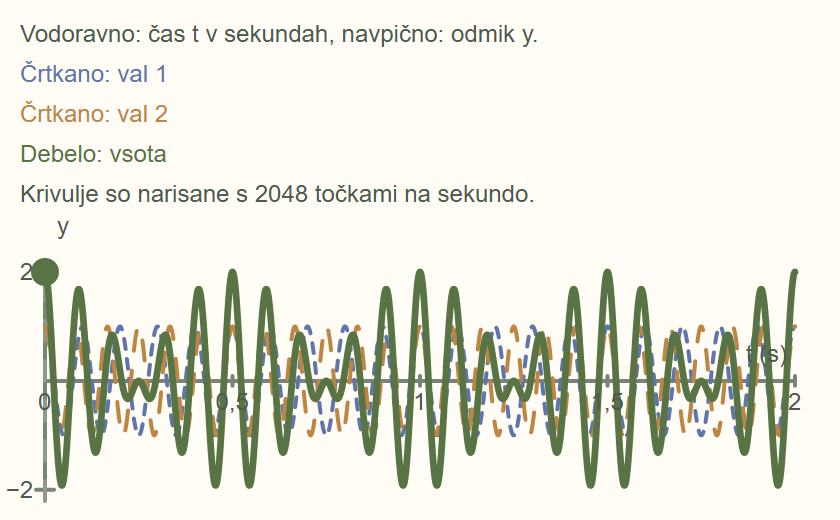
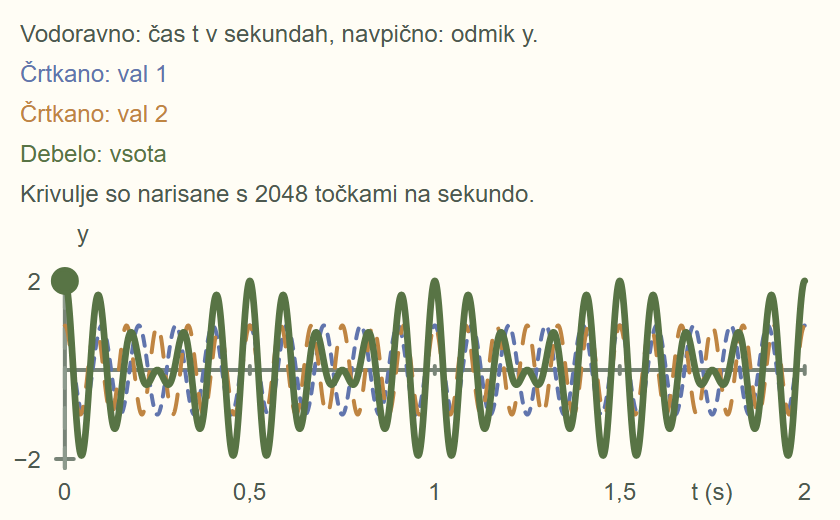
fix: waves board texts stay clear of curves, markers and the caption stack
Tick numbers and the axis title stand in a row under the plot, y numbers
left of the axis; the phasor names are placed by the shared board-label
placer (cache quantised to 6 px of tip travel). The plot keeps at least
90 px under a tall caption stack. Waves cards recaptured.

Claude-Session: https://claude.ai/code/session_01UfEZWPAJjUDrtsi1qRQ28P

Changed region(s): [[0.0, 0.4923, 0.9595, 0.9846], [0.8048, 0.9231, 0.8667, 0.9846], [0.0619, 0.4308, 0.1238, 0.4615]]

diff --git a/src/graphs/functions/WavesGraph.tsx b/src/graphs/functions/WavesGraph.tsx
@@ -12,6 +12,7 @@ import {LiveReadout, SettledReadout} from "../base/controls/LiveReadout";
 import {PlaybackButtons, playbackBlocks} from "../base/controls/PlaybackButtons";
 import {prefersReducedMotion, useReducedMotion} from "../base/controls/reducedMotion";
 import {GraphPalette} from "../styles/GraphPalette";
+import {placeLpLabels, sampleLine, type LabelItem, type PxBox} from "../legend/boardLabelPlacement";
 import {PresetCollection} from "../base/presets/PresetCollection";
 import {Preset} from "../base/presets/Presets";
 import {wavesPresetCollection} from "./waves/wavesPresetCollection";
@@ -73,12 +74,17 @@ export function frameFor(derived: WavesDerived, captions?: {readonly roomPx: num
     const span = derived.xs[derived.xs.length - 1];
     const peak = 1.1 * derived.yPeak;
     const hasPanel = derived.mode === "sum" || derived.mode === "sampling";
-    const bottom = derived.mode === "sampling" ? -2 * peak : -1.25 * peak;
+    let bottom = derived.mode === "sampling" ? -2 * peak : -1.25 * peak;
     let top = 2.3 * peak;
     // On a narrow board the captions wrap and take more rows than the fixed room holds: keep `roomPx` clear above the plot
     // (with the "y" title above its top end) and give the rest of the board's height to the plot.
     if (captions && Number.isFinite(captions.heightPx)) {
         const need = Math.min(captions.roomPx + Y_TITLE_PX, captions.heightPx - MIN_PLOT_PX);
+        // The tick numbers and the axis title stand in a row under the plot (not in sampling mode): keep that row inside the board.
+        if (derived.mode !== "sampling") {
+            const plotPx = captions.heightPx - Math.max(need, 0);
+            bottom = Math.min(bottom, peak - (2 * peak) / (1 - TICK_ROW_PX / plotPx));
+        }
         if (need > 0) top = Math.max(top, peak + (need * (peak - bottom)) / (captions.heightPx - need));
     }
     return [hasPanel ? -0.66 * span : -0.1 * span, top, 1.06 * span, bottom];
@@ -93,13 +99,16 @@ export function captionLines(text: string, width: number): number {
     return Math.max(1, Math.ceil((text.length * CAPTION_CHAR_PX) / room));
 }
 /** The height of the "y" axis title and the gap above it, in pixels. */
-const Y_TITLE_PX = 32;
+const Y_TITLE_PX = 44;
+/** The row of x tick numbers and the axis title under the plot (modes without the strip): gap under the plot edge and the height it needs, in pixels. */
+const TICK_GAP_PX = 5;
+const TICK_ROW_PX = 26;
 /** The "y" title stands at least this many pixels above the top tick number (a 12 px number centred on its tick) before its own gap. */
 const Y_TITLE_CLEARANCE_PX = 14;
 /** The names of the wheel arrows: the gap under the circle (the arrowhead overshoots the circle by about 10 px) and the pitch of their two rows. */
 const NAME_GAP_PX = 24;
 const NAME_ROW_PX = 20;
-const MIN_PLOT_PX = 140;
+const MIN_PLOT_PX = 90;
 
 /** Where a strip of instants lies under the plot (sampling mode), in units of the vertical half extent. */
 const stripLevel = (derived: WavesDerived): number => -1.55 * 1.1 * derived.yPeak;
@@ -475,11 +484,20 @@ export class WavesGraph extends BaseGraph<WavesGraphState, WavesState> {
             for (const level of [-derived.yPeak, derived.yPeak]) piece(-0.012 * length, level, 0.012 * length, level);
             return [xs, ys];
         }, {strokeColor: GraphPalette.axis, strokeWidth: 1});
-        const xAxisLabel = (k: number) => text(() => (span() * k) / 4, () => -4 / this.scaleOf().uy, () => dec((span() * k) / 4, 2), {anchorX: "middle", anchorY: "top", fontSize: 12});
+        // Tick numbers and the axis title stand in one row under the plot (the curves never reach it) except in sampling mode, where the strip lies there.
+        const ticksBelow = mode !== "sampling";
+        const rowY = () => (ticksBelow ? -peak() - TICK_GAP_PX / this.scaleOf().uy : -4 / this.scaleOf().uy);
+        const tickText = (k: number) => dec((span() * k) / 4, 2);
+        const titleText = () => t(mode === "standing" ? "waves_graph_axis_x" : "waves_graph_axis_t");
+        // The title takes the middle between the last two numbers; the number before it is left out when the board is too narrow to hold both.
+        const tickFits = (k: number) => !ticksBelow || k !== 3 || (span() * this.scaleOf().ux) / 8 >= (titleText().length * 7 + 4) / 2 + (tickText(3).length * 6.6) / 2 + 4;
+        const xAxisLabel = (k: number) => text(() => (span() * k) / 4, rowY, () => tickText(k), {anchorX: "middle", anchorY: "top", fontSize: 12, visible: () => tickFits(k)});
         [0, 1, 2, 3, 4].forEach(xAxisLabel);
-        text(() => -6 / this.scaleOf().ux, () => d().yPeak, () => dec(d().yPeak, 2), {anchorX: "right", anchorY: "middle", fontSize: 12});
-        text(() => -6 / this.scaleOf().ux, () => -d().yPeak, () => `${dec(-d().yPeak, 2)}`, {anchorX: "right", anchorY: "middle", fontSize: 12});
-        text(() => span() - 4 / this.scaleOf().ux, () => 6 / this.scaleOf().uy, () => t(mode === "standing" ? "waves_graph_axis_x" : "waves_graph_axis_t"), {anchorX: "right", anchorY: "bottom"});
+        const yLabelGapPx = ticksBelow ? 12 : 6;
+        text(() => -yLabelGapPx / this.scaleOf().ux, () => d().yPeak, () => dec(d().yPeak, 2), {anchorX: "right", anchorY: "middle", fontSize: 12});
+        text(() => -yLabelGapPx / this.scaleOf().ux, () => -d().yPeak, () => `${dec(-d().yPeak, 2)}`, {anchorX: "right", anchorY: "middle", fontSize: 12});
+        if (ticksBelow) text(() => span() * 0.875, rowY, titleText, {anchorX: "middle", anchorY: "top"});
+        else text(() => span() - 4 / this.scaleOf().ux, () => 6 / this.scaleOf().uy, titleText, {anchorX: "right", anchorY: "bottom"});
         text(() => 6 / this.scaleOf().ux, () => Math.max(peak(), d().yPeak + Y_TITLE_CLEARANCE_PX / this.scaleOf().uy) + 2 / this.scaleOf().uy, () => t("waves_graph_axis_y"), {anchorX: "left", anchorY: "bottom"});
 
         const playhead = (): number => this.clock();
@@ -528,11 +546,17 @@ export class WavesGraph extends BaseGraph<WavesGraphState, WavesState> {
                     strokeColor: arrow.color, strokeWidth: arrow.width, dash: arrow.dash, fixed: true, highlight: false, withLabel: false, visible: shown,
                 }));
             });
-            // Labels: "1" left of the first tip, "2" at the middle of arrow 2, "1+2" past the sum tip.
-            text(() => tip1()[0] - 6 / this.scaleOf().ux, () => tip1()[1], () => t("waves_graph_tip_1"), {strokeColor: GraphPalette.comparisonCurve, anchorX: "right", visible: shown});
-            text(() => (tip1()[0] + tip2()[0]) / 2 + 6 / this.scaleOf().ux, () => (tip1()[1] + tip2()[1]) / 2 - 8 / this.scaleOf().uy, () => t("waves_graph_tip_2"),
-                {strokeColor: GraphPalette.constructionAccent, anchorX: "left", visible: shown});
-            text(() => tip2()[0] + 6 / this.scaleOf().ux, () => tip2()[1] + 8 / this.scaleOf().uy, () => t("waves_graph_tip_sum"), {strokeColor: GraphPalette.primaryCurve, anchorX: "left", visible: shown});
+            // Names: placed by the shared label placer (clear of the tips, the circle, the shafts and the captions), read from a cache.
+            const nameAt = (id: string, axis: 0 | 1, fallback: () => number) => () => {
+                const box = this.phasorNameBoxes(tip1(), tip2())[id];
+                if (!box) return fallback();
+                const {left, top, ux, uy} = this.scaleOf();
+                return axis === 0 ? left + (box.x0 + box.x1) / 2 / ux : top - (box.y0 + box.y1) / 2 / uy;
+            };
+            const nameAttributes = (color: string): Partial<JXG.TextAttributes> => ({strokeColor: color, anchorX: "middle", anchorY: "middle", visible: shown});
+            text(nameAt("1", 0, () => tip1()[0] - 12 / this.scaleOf().ux), nameAt("1", 1, () => tip1()[1]), () => t("waves_graph_tip_1"), nameAttributes(GraphPalette.comparisonCurve));
+            text(nameAt("2", 0, () => (tip1()[0] + tip2()[0]) / 2), nameAt("2", 1, () => (tip1()[1] + tip2()[1]) / 2), () => t("waves_graph_tip_2"), nameAttributes(GraphPalette.constructionAccent));
+            text(nameAt("sum", 0, () => tip2()[0] + 12 / this.scaleOf().ux), nameAt("sum", 1, () => tip2()[1]), () => t("waves_graph_tip_sum"), nameAttributes(GraphPalette.primaryCurve));
             caption(() => t("waves_graph_cap_axes_time"));
             caption(() => t("waves_graph_cap_wave1"), GraphPalette.comparisonCurve);
             caption(() => t("waves_graph_cap_wave2"), GraphPalette.constructionAccent);
@@ -642,6 +666,50 @@ export class WavesGraph extends BaseGraph<WavesGraphState, WavesState> {
                 () => entry.text(),
             ], {strokeColor: entry.color, fontSize: 14, anchorX: "left", anchorY: "top", fixed: true, highlight: false, withLabel: false, visible: entry.visible}));
         });
+    }
+
+    private nameCache?: {key: string; boxes: Record<string, PxBox>};
+
+    /**
+     * The pixel boxes of the three phasor names, from the shared placer. Cache key: the board's scale and size, the panel (centre, radius), the two tips quantised to
+     * 6 px (so a name follows a turning arrow in steps, one placer run per 6 px of tip travel, a lookup in between), the caption rows and the names themselves (language).
+     */
+    private phasorNameBoxes(tip1: readonly [number, number], tip2: readonly [number, number]): Record<string, PxBox> {
+        const board = this.board;
+        if (!this.hasBoard || !this.state.showPhasors || !(board.canvasWidth > 0) || !(board.canvasHeight > 0)) return {};
+        const {ux, uy, left, top} = this.scaleOf();
+        const width = board.canvasWidth, height = board.canvasHeight;
+        const toPx = (x: number, y: number): readonly [number, number] => [(x - left) * ux, (top - y) * uy];
+        const origin = this.panelOrigin();
+        const [ox, oy] = toPx(origin[0], origin[1]), [ax, ay] = toPx(tip1[0], tip1[1]), [bx, by] = toPx(tip2[0], tip2[1]);
+        const names = [t("waves_graph_tip_1"), t("waves_graph_tip_2"), t("waves_graph_tip_sum")];
+        const captionTexts = this.captionSources.map(source => source());
+        const rows = captionTexts.reduce((sum, text) => sum + captionLines(text, width), 0);
+        const Q = 6;
+        const key = [ux, uy, left, top, width, height, this.panel().k, Math.round(ox / Q), Math.round(oy / Q), Math.round(ax / Q), Math.round(ay / Q), Math.round(bx / Q), Math.round(by / Q), rows, names.join("|"), captionTexts.length].join(",");
+        if (this.nameCache?.key === key) return this.nameCache.boxes;
+        const size = (text: string) => ({w: text.length * 14 * 0.55 + 8, h: 14 + 6});
+        // The sum name goes first (it has the pick of the spots above the head); the others take the sides.
+        const items: LabelItem[] = [
+            {id: "sum", ax: bx, ay: by, ...size(names[2])},
+            {id: "1", ax, ay, ...size(names[0])},
+            {id: "2", ax: (ax + bx) / 2, ay: (ay + by) / 2, ...size(names[1])},
+        ];
+        // The ring and the shafts are chains of small markers (a name over one costs as much as one over a point), the heads are larger markers.
+        const chain = (xs: readonly number[], ys: readonly number[]) => sampleLine(xs, ys, toPx, width, height, 7, 120).map(([x, y]) => [x, y, 4] as const);
+        const [circleX, circleY] = this.circlePoints();
+        const markers: Array<readonly [number, number, number]> = [
+            [ox, oy, 6], [ax, ay, 3], [bx, by, 3],
+            ...chain(circleX, circleY),
+            ...chain([origin[0], tip1[0]], [origin[1], tip1[1]]),
+            ...chain([tip1[0], tip2[0]], [tip1[1], tip2[1]]),
+            ...chain([origin[0], tip2[0]], [origin[1], tip2[1]]),
+        ];
+        const widest = captionTexts.reduce((most, text) => Math.max(most, Math.min(text.length * CAPTION_CHAR_PX, width - 20)), 0);
+        const blocks: PxBox[] = [{x0: 0, y0: 0, x1: 10 + widest + 6, y1: 10 + rows * CAPTION_ROW_PX}];
+        const boxes = placeLpLabels(items, {width, height, markers, samples: [], strips: [], blocks});
+        this.nameCache = {key, boxes};
+        return boxes;
     }
 
     /** The circle of the panel (the largest arrow) as an ellipse in board units, so that it is round on the screen. */

diff --git a/src/graphs/functions/WavesGraph.test.tsx b/src/graphs/functions/WavesGraph.test.tsx
@@ -9,7 +9,7 @@ import {enterNumber} from '../../inputs/testEntry';
 import type {TransientState} from '../base/BaseGraph';
 import type {AnimationScheduler} from '../../learning/runtime/animation';
 import {POINTS_PER_SECOND, WAVES_FIELD_RANGES, WAVES_MODES, type WavesMode, type WavesState} from '../../waves/wavesModel';
-import {MAX_FRAME_MS, TIME_STEP, WavesGraph} from './WavesGraph';
+import {MAX_FRAME_MS, TIME_STEP, WavesGraph, captionLines} from './WavesGraph';
 
 beforeAll(installBoardShims);
 beforeEach(() => setLanguage('sl'));
@@ -743,6 +743,120 @@ describe('language and the derived data', () => {
         expect(graph.derivationCount()).toBe(count + 1);
         expect(JSON.stringify(graph.derived().facts)).not.toMatch(/Hz|waves_graph/);
     });
+});
+
+/** The board texts that are not the screen-anchored caption rows, each as a pixel box from the board's top left corner (the glyph box from its anchor), with what it must clear. */
+type PxBoxed = {text: string; x0: number; y0: number; x1: number; y1: number};
+function textBoxes(graph: ObservedGraph): PxBoxed[] {
+    const board = graph.liveBoard() as unknown as {unitX: number; unitY: number; getBoundingBox(): number[]};
+    const [left, top] = board.getBoundingBox();
+    // The board's own coordinate infobox (hidden until a hover in a browser) is not a scene text.
+    const infobox = (board as unknown as {infobox?: unknown}).infobox;
+    return ofType(graph, 'text').filter(o => (o as unknown) !== infobox && visible(o) && Math.abs(o.X() - (left + 10 / board.unitX)) > 1e-6).map(o => {
+        const text = o.plaintext ?? '';
+        const size = Number(o.evalVisProp('fontsize')) || 14;
+        const w = text.length * size * 0.55, h = size * 1.15;
+        const x = (o.X() - left) * board.unitX, y = (top - o.Y()) * board.unitY;
+        const ax = o.evalVisProp('anchorx'), ay = o.evalVisProp('anchory');
+        const x0 = ax === 'right' ? x - w : ax === 'middle' ? x - w / 2 : x;
+        const y0 = ay === 'bottom' ? y - h : ay === 'middle' ? y - h / 2 : y;
+        return {text, x0, y0, x1: x0 + w, y1: y0 + h};
+    });
+}
+/** The pixel points of everything drawn that a text must not lie over: the curves, the arrows, the dots of the scene. */
+function drawnPixels(graph: ObservedGraph): {lines: Array<[number, number]>; dots: Array<[number, number, number]>} {
+    const board = graph.liveBoard() as unknown as {unitX: number; unitY: number; getBoundingBox(): number[]};
+    const [left, top] = board.getBoundingBox();
+    const px = (x: number, y: number): [number, number] => [(x - left) * board.unitX, (top - y) * board.unitY];
+    const lines: Array<[number, number]> = [];
+    const segment = (x0: number, y0: number, x1: number, y1: number) => {
+        if (![x0, y0, x1, y1].every(Number.isFinite)) return;
+        const [a, b] = px(x0, y0), [c, d] = px(x1, y1);
+        const count = Math.max(1, Math.ceil(Math.hypot(c - a, d - b)));
+        for (let k = 0; k <= count; k++) lines.push([a + ((c - a) * k) / count, b + ((d - b) * k) / count]);
+    };
+    for (const curve of curves(graph)) {
+        if (!visible(curve)) continue;
+        for (let i = 0; i + 1 < curve.dataX!.length; i++) segment(curve.dataX![i], curve.dataY![i], curve.dataX![i + 1], curve.dataY![i + 1]);
+    }
+    for (const arrow of ofType(graph, 'arrow')) {
+        if (!visible(arrow)) continue;
+        const {point1, point2} = arrow as unknown as {point1: Probe; point2: Probe};
+        segment(point1.X(), point1.Y(), point2.X(), point2.Y());
+    }
+    const dots = ofType(graph, 'point').filter(visible).map(p => [...px(p.X(), p.Y()), Number(p.evalVisProp('size')) + 1] as [number, number, number]);
+    return {lines, dots};
+}
+function expectTextsClear(graph: ObservedGraph, label: string) {
+    const {lines, dots} = drawnPixels(graph);
+    const boxes = textBoxes(graph);
+    expect(boxes.length, label).toBeGreaterThan(3);
+    for (const box of boxes) {
+        const hitLine = lines.find(([x, y]) => x > box.x0 + 1 && x < box.x1 - 1 && y > box.y0 + 1 && y < box.y1 - 1);
+        expect(hitLine, `${label}: "${box.text}" lies over a curve or an arrow at ${hitLine}`).toBeUndefined();
+        const hitDot = dots.find(([x, y, r]) => x + r > box.x0 && x - r < box.x1 && y + r > box.y0 && y - r < box.y1);
+        expect(hitDot, `${label}: "${box.text}" touches a marker at ${hitDot}`).toBeUndefined();
+    }
+    boxes.forEach((box, i) => boxes.slice(i + 1).forEach(other => {
+        const crossing = box.x0 < other.x1 && box.x1 > other.x0 && box.y0 < other.y1 && box.y1 > other.y0;
+        expect(crossing, `${label}: "${box.text}" and "${other.text}" overlap`).toBe(false);
+    }));
+}
+
+describe('board texts clear of the drawing (tick numbers, axis titles, phasor names)', () => {
+    for (const mode of ['sum', 'beats', 'standing'] as const) {
+        test(`every board text of the ${mode} scene lies clear of curves, arrows and markers (t = 0 and a later time)`, () => {
+            setLanguage('sl');
+            const {graph} = mountGraph();
+            choose(mode);
+            expectTextsClear(graph, `${mode} t=0`);
+            expect(go(graph, 0.31)).toBe(true);
+            expectTextsClear(graph, `${mode} t=0,31`);
+        });
+    }
+
+    test('the phasor names are laid out by the shared placer and read from a cache: unchanged tips ask the placer once', () => {
+        setLanguage('sl');
+        const {graph} = mountGraph();
+        const names = () => ofType(graph, 'text').filter(o => visible(o) && ['1', '2', '1+2'].includes(o.plaintext ?? ''));
+        expect(names().length).toBeGreaterThanOrEqual(3);
+        const before = names().map(o => [o.X(), o.Y()]);
+        act(() => { graph.liveBoard().update(); });
+        expect(names().map(o => [o.X(), o.Y()])).toEqual(before);
+    });
+});
+
+describe('a short board (420 x 320 px): the caption stack, the "y" title and the tick numbers', () => {
+    const W = 420, H = 320;
+    beforeEach(() => {
+        for (const [name, size] of Object.entries({clientWidth: W, offsetWidth: W, clientHeight: H, offsetHeight: H})) Object.defineProperty(HTMLElement.prototype, name, {configurable: true, get: () => size});
+        HTMLElement.prototype.getBoundingClientRect = () => ({x: 0, y: 0, left: 0, top: 0, right: W, bottom: H, width: W, height: H, toJSON: () => ({})}) as DOMRect;
+    });
+    afterEach(() => {
+        for (const [name, size] of [['clientWidth', 600], ['clientHeight', 400], ['offsetWidth', 600], ['offsetHeight', 400]] as const) Object.defineProperty(HTMLElement.prototype, name, {configurable: true, get: () => size});
+        HTMLElement.prototype.getBoundingClientRect = () => ({x: 0, y: 0, left: 0, top: 0, right: 600, bottom: 400, width: 600, height: 400, toJSON: () => ({})}) as DOMRect;
+    });
+
+    for (const mode of ['sum', 'beats', 'standing'] as const) {
+        test(`the "y" title has 8 px or more under the last caption row and every tick number lies inside the board (${mode})`, () => {
+            setLanguage('sl');
+            const {graph} = mountGraph();
+            choose(mode);
+            const board = graph.liveBoard() as unknown as {unitX: number; unitY: number; canvasWidth: number; canvasHeight: number; getBoundingBox(): number[]};
+            expect([board.canvasWidth, board.canvasHeight]).toEqual([W, H]);
+            const [left, top] = board.getBoundingBox();
+            const captions = ofType(graph, 'text').filter(o => visible(o) && Math.abs(o.X() - (left + 10 / board.unitX)) < 1e-6);
+            const stackBottom = Math.max(...captions.map(o => (top - o.Y()) * board.unitY + captionLines(o.plaintext ?? '', W) * 20));
+            const boxes = textBoxes(graph);
+            const title = boxes.find(b => b.text === t('waves_graph_axis_y'))!;
+            expect(title.y0 - stackBottom, `stack bottom ${stackBottom}, title top ${title.y0}`).toBeGreaterThanOrEqual(8);
+            for (const box of boxes) {
+                expect(box.x0, `"${box.text}" left`).toBeGreaterThanOrEqual(0);
+                expect(box.x1, `"${box.text}" right`).toBeLessThanOrEqual(W);
+                expect(box.y1, `"${box.text}" bottom`).toBeLessThanOrEqual(H);
+            }
+        });
+    }
 });
 
 describe('redraw timing (JSDOM PLACEHOLDER, not a browser measurement)', () => {

diff --git a/docs/reviews/feature-streams/families-prep/notes/f5-waves.md b/docs/reviews/feature-streams/families-prep/notes/f5-waves.md
@@ -7,3 +7,17 @@
 - Frames viewed: sum with the grey phasor circle and one up arrow at the left and a cosine of three cycles from a peak at the right; beats of 10 and 12 Hz over 2 s; standing wave with one arch above and one below the axis, three squares and two diamonds. All captions clear the figures.
 - Board labels touching something (label pass): sum card: "1" (left of arrow head) touches the circle ring and arrow head, "2" sits on the arrow shaft, "1+2" touches the arrow head; tick labels "0,25" and "0,75" are crossed by the sum curve; "t (s)" touches the curve near 0,75 to 1; "1" and "0" y/x tick labels touch the big dot and the axes. Beats card: tick labels "0,5", "1,5" and the "t (s)" title are crossed by the curves; "2" touches the big dot; "0" is crossed by the y axis. Standing card: tick labels "0", "1" and "2" lie under the node squares, "x" is next to the square at 2. Screen-anchored caption rows do not touch figures except that the "y" title sits close under the last caption row on the sum and standing cards.
 - Alt text and captions state no first-step answer (no sum amplitude or shape, no beat count or envelope behaviour, no antinode height or wavelength).
+
+## Label pass (handler 20), PARTIAL (budget handoff)
+
+- `WavesGraph.tsx`: modes sum/beats/standing put x tick numbers and the axis title in one row under the plot (`rowY`, `TICK_GAP_PX`; title at 0.875 of the span; number 0,75 left out when the board is too narrow for both); y tick numbers 12 px left of the axis; `frameFor` keeps the row inside the board (`TICK_ROW_PX`); `Y_TITLE_PX` 32 to 44; sampling mode unchanged. Phasor names go through `placeLpLabels` (`phasorNameBoxes`; ring and shafts as marker chains; cache key: scale, size, panel, both tips quantised to 6 px, caption rows, name strings).
+- Test (`WavesGraph.test.tsx`, "board texts clear of the drawing"): red before (tick number "0" on the y axis, three modes), green after. Redraw test (JSDOM placeholder, `redraw-before.txt` vs `wav02b-redraw.log`): sum median 9.19 to 9.19 ms, p95 32.98 to 13.51 ms; standing median 7.10 to 4.17 ms (noisy).
+- Window edits in `capture-guided-example-previews.cjs` (`wavesWindows`): the card font is larger than the board, so the tick row was cut; windows lowered at the bottom and raised at the top. Last recapture NOT viewed. Earlier recapture: sum names ended above the circle touching the last caption row, "y" title touched the last caption row on beats and standing; the final window values were chosen to fix that and are unchecked.
+- Not done: viewing the final cards, unit run of `src/learning/chapter`, tsc, lint, the inventory `expected` check, narrow-board placement test; the sum names sit 40 to 60 px from their arrows on the card and at 390 px ("1+2" far from its head).
+
+## Label pass follow-up
+
+- Card windows (`wavesWindows`): the plots stand lower and at a smaller vertical scale so the "y" title has clear room under the last caption row (sum, beats, standing); beats and standing start at x 0.073 so the y numbers ("-2") lie inside the card with margin; the sum window gives the circle about 40 px of room under the caption block.
+- `WavesGraph.tsx`: `MIN_PLOT_PX` 140 to 90 (a short board gave the plot priority over the caption stack, so the "y" title ran into it); the phasor tip markers for the name placer 9 to 3 px, so the names can sit 7 px from the tip. Test "a short board (420 x 320 px)": title at least 8 px under the stack and every board text inside the board; red before (observed at 420 x 260, stack bottom 130 and title top 93), green after at 420 x 320.
+- Sum card: "1+2" now sits right above the arrow tip, "1" and "2" at its right and left, about 40 card px from the tip, clear of the ring and shaft. At the opening all three arrows coincide (wave 2 has length 0), so the names share one tip; wave 2's name is by the tip, not on "1+2".
+- Viewed: the three cards and 1366/390 screenshots of the lesson openings (`.command-logs/label-pass/waves/*.png`). Inventory `expected` checks passed in the capture (`capture.log`). Not verified: the other moments of the lessons beyond the unit placement tests.
